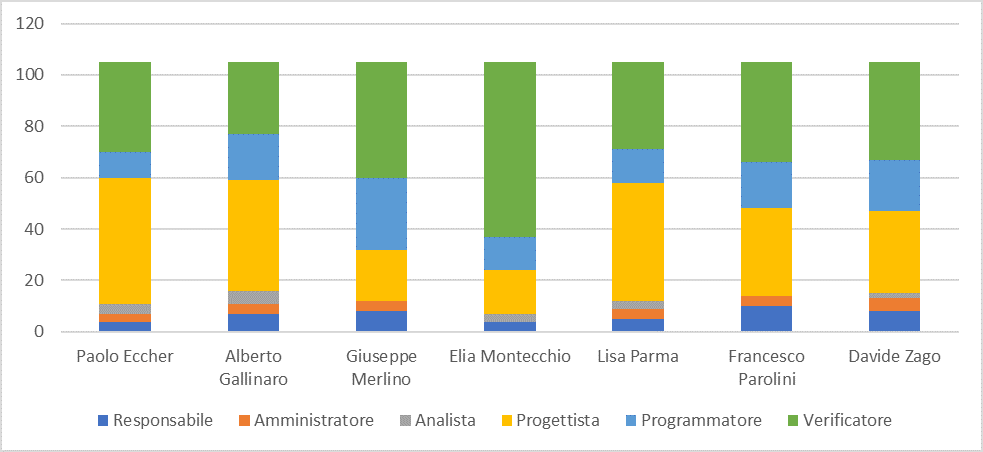
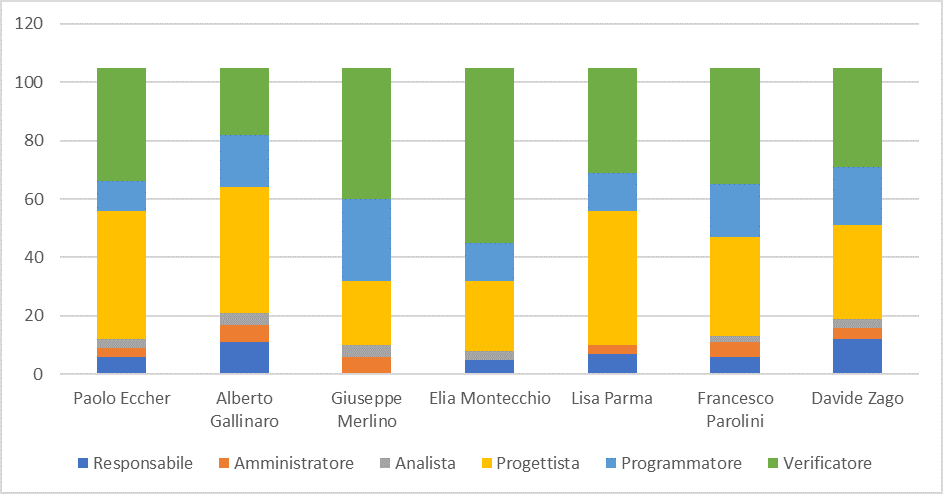
[PdP] finita mia parte. bisogna compilare organigramma

diff --git a/Docs/RR/PianoDiProgetto/Res/Sezioni/Preventivo.tex b/Docs/RR/PianoDiProgetto/Res/Sezioni/Preventivo.tex
@@ -16,7 +16,7 @@
 					\hline
 					Giuseppe Merlino    & 13 & - & 2 & - & - & 7 & 22 \\
 					\hline
-					Elia Montecchio     & -  & 3 & 12 & - & - & 6 & 21 \\
+					Elia Montecchio     & -  & 3 & 12 & - & - & 8 & 23 \\
 					\hline
 					Lisa Parma          & -  & 6 & 12 & - & - & 4 & 22 \\
 					\hline
@@ -24,7 +24,7 @@
 					\hline
 					Davide Zago         & 5  & 2 & 10 & - & - & 6 & 23 \\
 					\hline
-					\textbf{Ore totali ruolo}  & \textbf{31} & \textbf{18} & \textbf{65} & \textbf{-} & \textbf{-} & \textbf{41} & \textbf{155} \\
+					\textbf{Ore totali ruolo}  & \textbf{31} & \textbf{18} & \textbf{65} & \textbf{-} & \textbf{-} & \textbf{43} & \textbf{157} \\
 					\hlineB{3}
 				\end{tabular}
 				\caption{Suddivisione del lavoro - \textit{Analisi dei Requisiti di Massima}}	
@@ -59,9 +59,9 @@
 					\hline
 					Programmatore & - & 0\euro \\
 					\hline
-					Verificatore & 41 & 615,00\euro \\
+					Verificatore & 43 & 645,00\euro \\
 					\hline				
-					\textbf{Ore totali} & \textbf{155} & \textbf{3.530.00 \euro} \\
+					\textbf{Ore totali} & \textbf{157} & \textbf{3.560.00 \euro} \\
 					\hlineB{3}
 				\end{tabular}
 				\caption{Costi per ruolo - \textit{Analisi dei Requisiti di Massima}}
@@ -80,7 +80,7 @@
 			Come precedentemente detto nella sezione 3.1.2 di questo documento nel periodo di attesa dell'esito di questa attività ogni componente del grupo dovrà impegnare 10 ore in attività di approfondimento e studio delle tecnologie utili ai fini del profetto. Questo impegno non sarà rendicontato al proponente, nè ne sarà fornita una stima di costo in quanto non è assimilabile a nessun ruolo di progetto.
 		
 		\subsubsection{Analisi dei Requisiti di Dettaglio}
-			\paragraph{Suddivisione lavoro}
+			\paragraph{Suddivisione lavoro} \Spazio
 			Nell'attività di \textit{Analisi dei Requisiti di Dettaglio} ciascun componente andrà a rivestire i seguenti ruoli:
 			\begin{table}[H]
 				\centering
@@ -117,7 +117,7 @@
 				\label{BarreAnalisiRequisitiDiDettaglio}
 			\end{figure}			
 
-			\paragraph{Prospetto economico}
+			\paragraph{Prospetto economico} \Spazio
 			Nello svolgimento di questa attività i costi sostenuti per ogni ruolo sono raissunti nella seguente tabella:
 			\begin{table}[H]
 			\centering
@@ -232,7 +232,7 @@
 
 		
 		\subsubsection{Progettazione di Dettaglio}
-			\paragraph{Suddivisione lavoro}
+			\paragraph{Suddivisione lavoro} \Spazio
 			Nell'attività di \textit{Progettazione di Dettaglio} ciascun componente andrà a rivestire i seguenti ruoli:
 			
 			\begin{table}[H]
@@ -308,7 +308,7 @@
 		
 		
 		\subsubsection{Codifica}
-			\paragraph{Suddivisione lavoro}
+			\paragraph{Suddivisione lavoro} \Spazio
 			Nell'attività di \textit{Codifica} ciascun componente andrà a rivestire i seguenti ruoli:
 			\begin{table}[H]
 				\centering
@@ -390,21 +390,21 @@
 					\hlineB{3}
 					\thead{Nominativo} &\thead{Re} &\thead{Am} &\thead{An}&\thead{Pt}&\thead{Pr}&\thead{Ve}&\thead{Ore totali}\\
 					\hlineB{3}
-					Paolo Eccher       & - & - & - & 2 & - & 12 & 14 \\
+					Paolo Eccher       & - & - & - & 2 & - & 15 & 17 \\
 					\hline
-					Alberto Gallinaro  & - & 2 & - & - & - & 12 & 14 \\
+					Alberto Gallinaro  & - & 3 & - & - & - & 14 & 17 \\
 					\hline
-					Giuseppe Merlino   & - & - & - & 3 & - & 12 & 15 \\
+					Giuseppe Merlino   & - & - & - & 5 & - & 12 & 17 \\
 					\hline
-					Elia Montecchio    & - & - & - & 5 & - & 10 & 15 \\
+					Elia Montecchio    & - & - & - & 7 & - & 10 & 17 \\
 					\hline
-					Lisa Parma         & - & - & - & 10 & - & 5 & 15 \\
+					Lisa Parma         & - & - & - & 10 & - & 7 & 17 \\
 					\hline
-					Francesco Parolini & - & - & - & - & - & 14 & 14 \\
+					Francesco Parolini & 2 & - & - & - & - & 15 & 17 \\
 					\hline
-					Davide Zago        & 6 & - & - & - & - & 9 & 15 \\
+					Davide Zago        & 6 & - & - & - & - & 12 & 18 \\
 					\hline
-					\textbf{Ore totali ruolo}  & \textbf{6} & \textbf{2} & \textbf{-} & \textbf{20} & \textbf{-} & \textbf{74} & \textbf{102} \\
+					\textbf{Ore totali ruolo}  & \textbf{8} & \textbf{3} & \textbf{-} & \textbf{24} & \textbf{-} & \textbf{85} & \textbf{120} \\
 					\hlineB{3}
 				\end{tabular}
 				\caption{Suddivisione del lavoro - \textit{Validazione}}
@@ -428,19 +428,19 @@
 					
 					\thead{Ruolo} &\thead{Ore previste} &\thead{Costo}\\
 					\hlineB{3}			
-					Responsabile & 6 & 180,00\euro \\
+					Responsabile & 8 & 240,00\euro \\
 					\hline
-					Amministratore& 2 & 40,00\euro \\
+					Amministratore& 3 & 60,00\euro \\
 					\hline
 					Analista & - & 0\euro \\
 					\hline
-					Progettista & 20 & 404,00\euro \\
+					Progettista & 20 & 528,00\euro \\
 					\hline
 					Programmatore & - & 0,00\euro \\
 					\hline
-					Verificatore & 74 & 1.110,00\euro \\
+					Verificatore & 74 & 1.275,00\euro \\
 					\hline
-					\textbf{Ore totali} & \textbf{102} & \textbf{1.734,00 \euro} \\
+					\textbf{Ore totali} & \textbf{102} & \textbf{2.103,00 \euro} \\
 					\hlineB{3}
 				\end{tabular}
 				\caption{Costi per ruolo - \textit{Validazione}}
@@ -464,21 +464,21 @@
 				\hlineB{3}
 				\thead{Nominativo} &\thead{Re} &\thead{Am} &\thead{An}&\thead{Pt}&\thead{Pr}&\thead{Ve}&\thead{Ore totali}\\
 				\hlineB{3}
-				Paolo Eccher 		& 6  & 6 & 16 & 49 & 10 & 37 & 124 \\
+				Paolo Eccher 		& 6  & 6 & 16 & 44 & 10 & 45 & 127 \\
 				\hline
-				Alberto Gallinaro 	& 11 & 5 & 20 & 43 & 18 & 27 & 124 \\
+				Alberto Gallinaro 	& 11 & 6 & 20 & 43 & 18 & 29 & 127 \\
 				\hline
-				Giuseppe Merlino 	& 13 & 6 & 6  & 20 & 28 & 52 & 125 \\
+				Giuseppe Merlino 	& 13 & 6 & 6  & 22 & 28 & 52 & 127 \\
 				\hline
-				Elia Montecchio 	& 5 & 3 & 15 & 17 & 13 & 71 & 124 \\
+				Elia Montecchio 	& 5 & 3 & 15 & 24 & 13 & 68 & 128 \\
 				\hline
-				Lisa Parma 			& 7 & 9 & 12 & 46 & 13 & 38 & 125 \\
+				Lisa Parma 			& 7 & 9 & 12 & 46 & 13 & 40 & 127 \\
 				\hline
-				Francesco Parolini 	& 17 & 9 & 2 & 34 & 18 & 45 & 125 \\
+				Francesco Parolini 	& 19 & 9 & 2 & 34 & 18 & 46 & 128 \\
 				\hline
-				Davide Zago 		& 17 & 6 & 13 & 32 & 20 & 37 & 125 \\
+				Davide Zago 		& 17 & 6 & 13 & 32 & 20 & 40 & 128 \\
 				\hline
-				\textbf{Ore totali ruolo}  & \textbf{76} & \textbf{44} & \textbf{84} & \textbf{241} & \textbf{120} & \textbf{307} & \textbf{872} \\
+				\textbf{Ore totali ruolo}  & \textbf{78} & \textbf{45} & \textbf{84} & \textbf{245} & \textbf{120} & \textbf{320} & \textbf{892} \\
 				\hlineB{3}
 			\end{tabular}
 			\caption{Suddivisione del lavoro - Investimento totale }
@@ -514,14 +514,14 @@
 					\hlineB{3}
 					\thead{Nominativo} &\thead{Re} &\thead{Am} &\thead{An}&\thead{Pt}&\thead{Pr}&\thead{Ve}&\thead{Ore totali}\\
 					\hlineB{3}
-					Paolo Eccher       & 4 & 3 & 4 & 49 & 10 & 35 & 105 \\
-					Alberto Gallinaro  & 7 & 4 & 5 & 43 & 18 & 28 & 105 \\
-					Giuseppe Merlino   & 8 & 4 & 0 & 20 & 28 & 45 & 105 \\
-					Elia Montecchio    & 4 & 0 & 3 & 17 & 13 & 68 & 105 \\
-					Lisa Parma         & 5 & 4 & 3 & 46 & 13 & 34 & 105 \\
-					Francesco Parolini& 10 & 4 & 0 & 34 & 18 & 39 & 105 \\
-					Davide Zago        & 8 & 5 & 2 & 32 & 20 & 38 & 105 \\
-					\textbf{Ore totali ruolo}  & \textbf{46} & \textbf{24} & \textbf{17} & \textbf{241} & \textbf{120} & \textbf{287} & \textbf{735} \\
+					Paolo Eccher       & 6 & 3 & 3 & 44 & 10 & 39 & 105 \\
+					Alberto Gallinaro  & 11 & 6 & 4 & 43 & 18 & 23 & 105 \\
+					Giuseppe Merlino   & 0 & 6 & 4 & 22 & 28 & 45 & 105 \\
+					Elia Montecchio    & 5 & 0 & 3 & 24 & 13 & 60 & 105 \\
+					Lisa Parma         & 7 & 3 & 0 & 46 & 13 & 36 & 105 \\
+					Francesco Parolini& 6 & 5 & 2 & 34 & 18 & 40 & 105 \\
+					Davide Zago        & 12 & 4 & 3 & 32 & 20 & 34 & 105 \\
+					\textbf{Ore totali ruolo}  & \textbf{47} & \textbf{27} & \textbf{19} & \textbf{245} & \textbf{120} & \textbf{277} & \textbf{735} \\
 					\hlineB{3}
 				\end{tabular}
 				\caption{Suddivisione del lavoro - Ore rendicontate }
@@ -546,19 +546,19 @@
 					
 					\thead{Ruolo} &\thead{Ore previste} &\thead{Costo}\\
 					\hlineB{3}			
-					Responsabile & 46 & 1.380,00\euro \\
+					Responsabile & 47 & 1.410,00\euro \\
 					\hline
-					Amministratore& 24 & 480,00\euro \\
+					Amministratore& 27 & 540,00\euro \\
 					\hline
-					Analista & 17 & 425,0\euro \\
+					Analista & 19 & 475,0\euro \\
 					\hline
-					Progettista & 241 & 5.302,00\euro \\
+					Progettista & 245 & 5.390,00\euro \\
 					\hline
 					Programmatore & 120 & 1.800,00\euro \\
 					\hline
-					Verificatore & 287 & 4.305,00\euro \\
+					Verificatore & 277 & 4.155,00\euro \\
 					\hline
-					\textbf{Ore totali} & \textbf{735} & \textbf{13.692,00 \euro} \\
+					\textbf{Ore totali} & \textbf{735} & \textbf{13.770,00 \euro} \\
 					\hlineB{3}
 				\end{tabular}
 				\caption{Costi per ruolo - Ore rendicontate}
@@ -569,7 +569,7 @@
 			\begin{figure}[H] 
 				\centering 
 				\includegraphics[width=0.9\textwidth]{images/CircolareSoloRendicontate.png} 
-				\caption{Diagramma circolare ripartizione ore rendicontat per ruolo}
+				\caption{Diagramma circolare ripartizione ore rendicontate per ruolo}
 				\label{CircolareSoloRendicontate}
 			\end{figure}
 			
@@ -577,4 +577,4 @@
 			
 			\subsubsection{Conclusioni}
 			
-			Il costo totale preventivato per il progetto è 13.692,00 \euro.
+			Il costo totale preventivato per il progetto è 13.770,00 \euro.

diff --git a/Docs/RR/PianoDiProgetto/Res/Sezioni/ConsuntivoEPreventivoAFinire.tex b/Docs/RR/PianoDiProgetto/Res/Sezioni/ConsuntivoEPreventivoAFinire.tex
@@ -1,1 +1,43 @@
 \section{Consuntivo e Preventivo a finire}
+Sono di seguito indicati i costi sostenuti effettivamente, in relazione alle spese rendicontate per ogni ruolo.
+In corrispondenza di ogni attività del progetto viene redatto un bilancio che puà essere:
+\begin{itemize}
+	\item \textbf{Positivo} se la cifra risultante nel consuntivo risulta inferiore alla cifra preventivata;
+	\item \textbf{In pari} se la cifra risultante nel consuntivo è equivalente alla cifra preventivata;	
+	\item \textbf{Negativo} se la cifra risultante nel consuntivo risulta superiore alla cifra preventivata.
+\end{itemize}
+	\subsection{Analisi dei Requisiti}
+		\subsubsection{Consuntivo}
+		Nella seguente tabella sono indicate le ore effettive ricoperte per ogni ruolo durante e la spesa corrispondente durante l'attività di investimento di risorse iniziale per approfondimento personale. Queste ore fanno dunque parte delle ore non rendicontate.
+		
+		\begin{table}[H]
+		\centering
+		\begin{tabular}{|p{3.8cm}|C{2.6cm}|C{2.9cm}|C{2.7cm}|C{3.3cm}|}
+			\hlineB{3}
+			
+			\thead{Ruolo} &\thead{Ore previste} &\thead{Differenza ore} &\thead{Costo} &\thead{Differenza costo} \\
+			\hlineB{3}			
+			Responsabile  & 31 & -3 & 930,00\euro & -90,00\euro \\
+			\hline
+			Amministratore& 18 & +1 & 360,00\euro & +20,00\euro \\
+			\hline
+			Analista      & 65 & +2 & 1.625,00\euro & +50,00\euro \\
+			\hline
+			Progettista   & -  & - & 0\euro & 0\euro \\
+			\hline
+			Programmatore & -  & - & 0\euro & 0\euro \\
+			\hline
+			Verificatore  & 54 & +1 & 810,00\euro & +15,00\euro \\
+			\hlineB{3}
+			\textbf{Totale Preventivo} & \textbf{157} & \textbf{-} & \textbf{3.560,00\euro} & \textbf{-}\\
+			\hlineB{3}			
+			\textbf{Totale Consuntivo} & \textbf{158} & \textbf{+1} & \textbf{3.555,00\euro} & \textbf{-5,00\euro}\\
+			
+			
+			\hlineB{3}
+		\end{tabular}
+		\caption{Consuntivo - \textit{Analisi dei Requisiti}}
+	\end{table}
+	\subsubsection{Conclusioni}
+	Al gruppo sono servite un totale di quattro ore aggiuntive. Di queste quattro: una è servità per l'attività di amministrazione, due per quella di analisi e la rimanente ora per la verifica. Inoltre sono risultate sufficienti tre ore in meno di quante preventivate per il ruolo di \textit{Responsabile}.
+	Il bilancio finale è un risparmio di \textbf{5,00\euro} rispetto a quanto inizialmente preventivato.

diff --git a/Docs/RR/PianoDiProgetto/Res/Sezioni/Organigramma.tex b/Docs/RR/PianoDiProgetto/Res/Sezioni/Organigramma.tex
@@ -1,0 +1,83 @@
+\appendix
+\section{Organigramma}
+	\subsection{Redazione}
+	\begin{table}[H]
+	\centering
+	\begin{tabular}{|p{4cm}|C{4cm}|C{5cm}|}
+	\hline
+		\thead{Nome} &\thead{Data} &\thead{Firma} \\
+		\hline			
+		Tizio & data & immaginefirma  \\
+		\hline
+		Caio & data & immaginefirma \\
+		\hline
+	\end{tabular}
+	\caption{Redazione}
+	\end{table}
+	
+	\subsection{Approvazione}
+	\begin{table}[H]
+		\centering
+		\begin{tabular}{|p{4cm}|C{4cm}|C{5cm}|}
+			\hline
+			\thead{Nome} &\thead{Data} &\thead{Firma} \\
+			\hline			
+			Tizio & data & immaginefirma  \\
+			\hline
+			Caio & data & immaginefirma \\
+			\hline
+		\end{tabular}
+		\caption{Approvazione}
+	\end{table}
+	
+	\subsection{Accettazione componenti}
+		\begin{table}[H]
+		\centering
+		\begin{tabular}{|p{4cm}|C{4cm}|C{5cm}|}
+			\hline
+			\thead{Nome} &\thead{Data} &\thead{Firma} \\
+			\hline			
+			Paolo Eccher & data & immaginefirma  \\
+			\hline
+			Alberto Gallinaro & data & immaginefirma \\
+			\hline
+			Giuseppe Merlino & data & immaginefirma \\
+			\hline
+			Elia Montecchio & data & immaginefirma \\
+			\hline
+			Lisa Parma & data & immaginefirma \\
+			\hline
+			Francesco Parolini & data & immaginefirma \\
+			\hline
+			Davide Zago & data & immaginefirma \\
+			\hline
+		\end{tabular}
+		\caption{Accettazione componenti}
+	\end{table}
+
+	\subsection{Componenti}	
+	\begin{table}[H]
+		\centering
+		\begin{tabular}{|p{2cm}|C{3cm}|C{5.5cm}|C{3cm}|}
+			\hline
+			\thead{Nome} & \thead{Matricola} &\thead{Indirizzo} &\thead{Ruoli} \\
+			\hline			
+			Paolo Eccher & 1121210 & paolo.eccher96@gmail.com  &   \\
+			\hline
+			Alberto Gallinaro & &  &  \\
+			\hline
+			Giuseppe Merlino & &  &  \\
+			\hline
+			Elia Montecchio & & & \\
+			\hline
+			Lisa Parma & &  & \\
+			\hline
+			Francesco Parolini & &  & \\
+			\hline
+			Davide Zago & & & \\
+			\hline
+		\end{tabular}
+		\caption{Componenti}
+	\end{table}
+	
+	

diff --git a/Docs/RR/PianoDiProgetto/Res/Comandi.tex b/Docs/RR/PianoDiProgetto/Res/Comandi.tex
@@ -1,6 +1,6 @@
 % VARIABILI
 
-\newcommand{\Titolo}{Titolo del documento}
+\newcommand{\Titolo}{Piano di Progetto}
 
 \newcommand{\Gruppo}{SWEefty}
 
@@ -16,8 +16,8 @@
 
 \newcommand{\Distribuzione}{ZZZ}
 
-\newcommand{\Uso}{Interno/esterno}
+\newcommand{\Uso}{Esterno}
 
 \newcommand{\Data}{4 Dicembre 2017}
 
-\newcommand{\DescrizioneDoc}{Questo documento descrive le regole, gli strumenti e le convenzioni adottate dal gruppo SWEefty durante la realizzazione del progetto etctectetc.}
+\newcommand{\DescrizioneDoc}{Questo documento descrive la pianificazione delle attività del gruppo SWEefty nella realizzazione del progetto \textcolor{red}{ASDLOL}.}

diff --git a/Docs/RR/PianoDiQualifica/Res/Comandi.tex b/Docs/RR/PianoDiQualifica/Res/Comandi.tex
@@ -20,4 +20,4 @@
 
 \newcommand{\Data}{4 Dicembre 2017}
 
-\newcommand{\DescrizioneDoc}{Questo documento descrive le operazioni di verifica e validazione seguite dal gruppo \textit{SWEefty} relativi al progetto TODO}
+\newcommand{\DescrizioneDoc}{Questo documento descrive le operazioni di verifica e validazione seguite dal gruppo \textit{SWEefty} relativi al progetto \textcolor{red}{TODO}}

diff --git a/Docs/RR/PianoDiProgetto/Res/Sezioni.tex b/Docs/RR/PianoDiProgetto/Res/Sezioni.tex
@@ -5,3 +5,4 @@
 \input{Res/Sezioni/Pianificazione.tex}
 \input{Res/Sezioni/Preventivo.tex}
 \input{Res/Sezioni/ConsuntivoEPreventivoAFinire.tex}
+\input{Res/Sezioni/Organigramma.tex}
